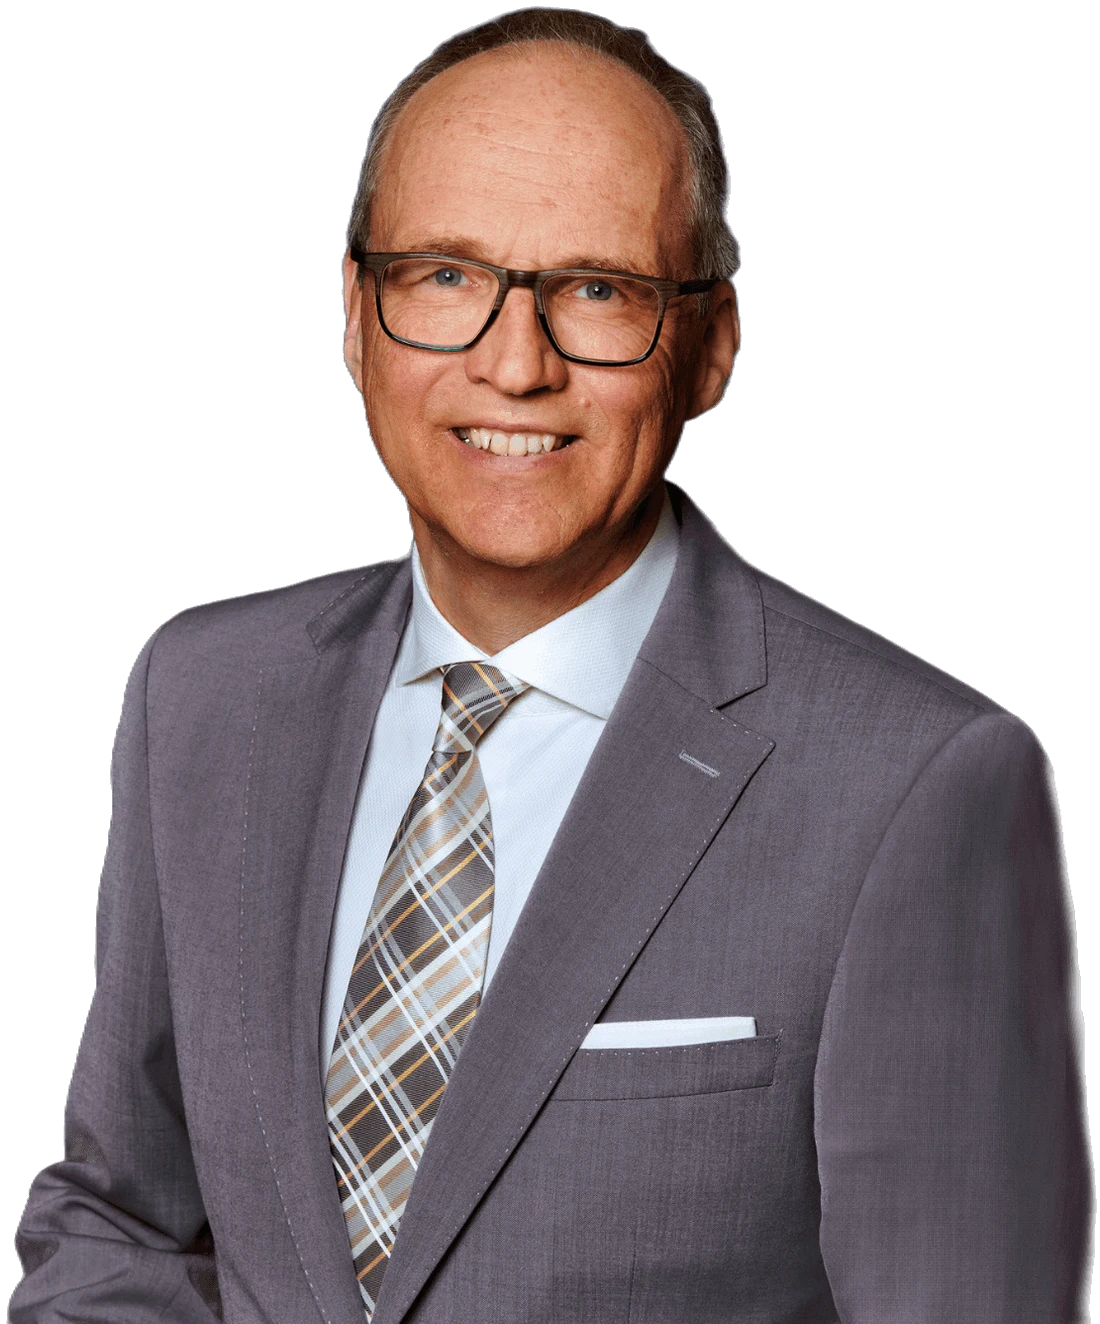
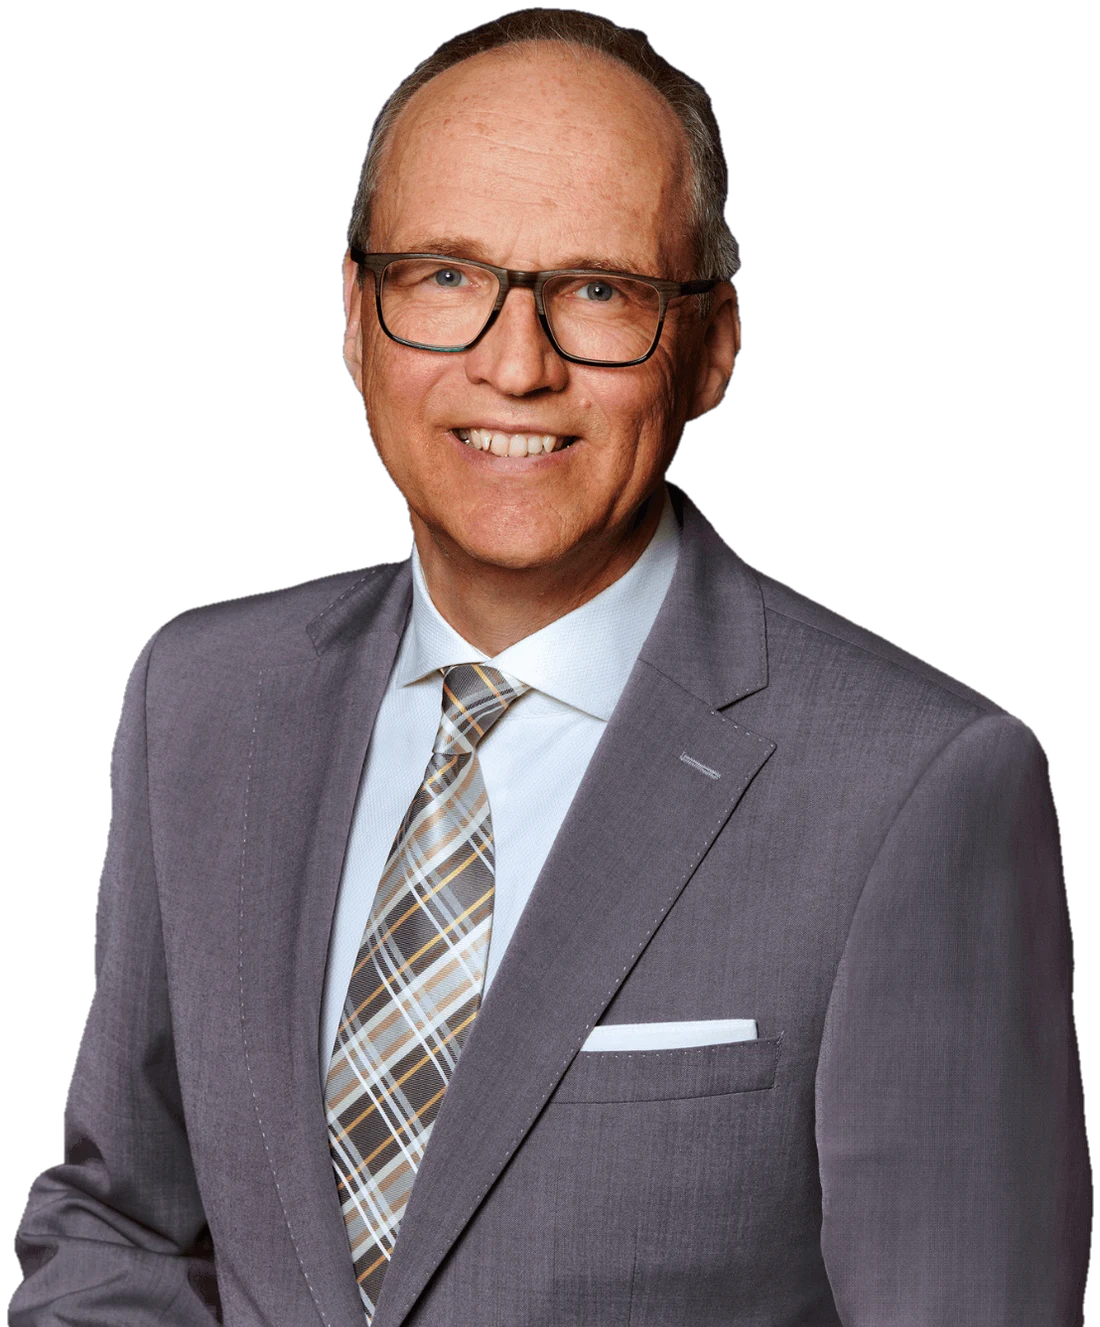
Portraet-Nachbesserung, Testimonial-Rondell, WhatsApp-Button, Wellen entfernt
- Weichen Transparenz-Schleier am rechten Aermel im freigestellten Foto bereinigt
  (Alphakanal neu geglaettet statt weicher Kante)
- Unteren Bildabschluss des Portraets an die Kreisform des Hintergrund-Kreises
  angepasst, Kopf/Schultern bleiben unangetastet freigestellt
- Trennstrich zwischen Positionsangabe und Vita bei Christian Lueth entfernt
- "Stimmen aus der Praxis" als Rondell mit langsamem automatischem Wechsel
  (pausiert bei Hover/Fokus, respektiert reduzierte Bewegung)
- WhatsApp-Button im Header neben "Anfrage stellen" ergaenzt, in Markenfarbe
  statt WhatsApp-Gruen, mit vorformulierter Nachricht (Name/E-Mail-Feld,
  Hinweis auf vertrauliche telefonische Erreichbarkeit)
- Wellenmuster am Hero-Ende entfernt

diff --git a/index.html b/index.html
@@ -458,9 +458,22 @@
     box-shadow: 0 14px 28px -14px rgba(94, 140, 32, 0.5);
     transform: translateY(-1px);
   }
+  .header-cta--whatsapp {
+    background: var(--color-green-deep);
+    box-shadow: 0 10px 24px -14px rgba(94, 140, 32, 0.5);
+  }
+  .header-cta--whatsapp:hover {
+    background: var(--color-ink);
+    box-shadow: 0 14px 28px -14px rgba(44, 44, 44, 0.5);
+  }
+  .header-cta-icon { flex-shrink: 0; }
   @media (max-width: 720px) {
     .header-right { gap: 0.9rem; }
     .header-partners { display: none; }
+  }
+  @media (max-width: 480px) {
+    .header-cta-label { display: none; }
+    .header-cta--whatsapp { padding: 0.65rem; }
   }
   .inline-cta { text-align: center; margin: 2.6rem 0 0; }
 
@@ -473,19 +486,6 @@
     position: relative;
     overflow: hidden;
   }
-  .hero-wave-below { padding-bottom: clamp(7.5rem, 11vw, 10.5rem); }
-  .hero-wave {
-    position: absolute;
-    left: 0;
-    right: 0;
-    bottom: 0;
-    height: clamp(70px, 9vw, 120px);
-    z-index: 1;
-    line-height: 0;
-    pointer-events: none;
-  }
-  .hero-wave svg { display: block; width: 100%; height: 100%; }
-
   /* -------------------------------------------------------------
      Ruhiger Farbverlauf (Alternative zu Foto-Baendern) --
      Rhythmus Foto / Farbverlauf / Foto ueber die Seite
@@ -823,8 +823,6 @@
     color: var(--color-ink-soft);
     font-size: 0.95rem;
     margin-bottom: 1.2rem;
-    padding-bottom: 1.2rem;
-    border-bottom: 1px solid var(--color-rule);
   }
   .speaker-card p {
     color: var(--color-ink-soft);
@@ -886,11 +884,16 @@
     justify-content: center;
     min-height: 320px;
   }
+  .speaker-feature-frame {
+    position: relative;
+    width: 100%;
+    max-width: 340px;
+  }
   .speaker-feature-backdrop {
     position: absolute;
-    top: 4%;
+    top: 2%;
     left: 50%;
-    width: 82%;
+    width: 96%;
     aspect-ratio: 1;
     transform: translateX(-50%);
     border-radius: 50%;
@@ -900,7 +903,7 @@
   .speaker-feature-marks {
     position: absolute;
     top: 6%;
-    right: 4%;
+    right: -2%;
     z-index: 2;
   }
   .speaker-feature-marks span { width: 30px; height: 8px; }
@@ -908,14 +911,14 @@
     position: relative;
     z-index: 1;
     width: 100%;
-    max-width: 340px;
     height: auto;
     display: block;
-    filter: drop-shadow(0 28px 36px rgba(44, 44, 44, 0.3));
+    clip-path: circle(53% at 50% 36%);
+    filter: drop-shadow(0 22px 30px rgba(44, 44, 44, 0.3));
   }
   @media (max-width: 799px) {
     .speaker-feature-portrait { order: -1; }
-    .speaker-feature-portrait img { max-width: 280px; }
+    .speaker-feature-frame { max-width: 280px; }
   }
 
   /* -------------------------------------------------------------
@@ -1569,24 +1572,35 @@
   }
 
   /* -------------------------------------------------------------
-     Stimmen aus der Praxis (anonymisierte Testimonials)
+     Stimmen aus der Praxis (anonymisierte Testimonials) — Rondell
      ------------------------------------------------------------- */
-  .testimonial-grid {
-    display: grid;
-    grid-template-columns: 1fr;
-    gap: 1.5rem;
+  .testimonial-carousel {
+    position: relative;
+    max-width: 640px;
+    margin: 0 auto;
   }
-  @media (min-width: 760px) {
-    .testimonial-grid { grid-template-columns: repeat(3, 1fr); }
+  .testimonial-track {
+    display: grid;
   }
   .testimonial-card {
+    grid-area: 1 / 1;
     background: var(--color-paper);
     border-top: 3px solid var(--color-green);
-    padding: 2rem 1.9rem;
+    padding: 2.2rem 2.1rem;
     display: flex;
     flex-direction: column;
     gap: 1.2rem;
     box-shadow: 0 24px 48px -32px rgba(44, 44, 44, 0.24);
+    opacity: 0;
+    visibility: hidden;
+    transform: translateY(10px);
+    transition: opacity 0.7s ease, transform 0.7s ease, visibility 0s linear 0.7s;
+  }
+  .testimonial-card.is-active {
+    opacity: 1;
+    visibility: visible;
+    transform: translateY(0);
+    transition: opacity 0.7s ease, transform 0.7s ease;
   }
   .testimonial-card .quote-mark {
     font-family: var(--font-display);
@@ -1599,8 +1613,8 @@
     margin: 0;
     font-family: var(--font-display);
     font-style: italic;
-    font-size: 1.08rem;
-    line-height: 1.5;
+    font-size: 1.15rem;
+    line-height: 1.55;
     color: var(--color-ink);
   }
   .testimonial-card footer {
@@ -1611,6 +1625,29 @@
     letter-spacing: 0.08em;
     text-transform: uppercase;
     color: var(--color-ink-muted);
+  }
+  .testimonial-dots {
+    display: flex;
+    justify-content: center;
+    gap: 0.6rem;
+    margin-top: 1.8rem;
+  }
+  .testimonial-dot {
+    width: 9px;
+    height: 9px;
+    border-radius: 50%;
+    border: none;
+    padding: 0;
+    background: var(--color-ink-muted);
+    opacity: 0.4;
+    cursor: pointer;
+    transition: opacity 0.25s ease, background 0.25s ease, transform 0.25s ease;
+  }
+  .testimonial-dot:hover { opacity: 0.7; }
+  .testimonial-dot.is-active {
+    background: var(--color-green);
+    opacity: 1;
+    transform: scale(1.25);
   }
 
   /* -------------------------------------------------------------
@@ -1787,6 +1824,10 @@
           <a href="mailto:info@ibras.de">info@ibras.de</a>
         </div>
       </div>
+      <a href="https://wa.me/4916097086559?text=Guten%20Tag%2C%20ich%20interessiere%20mich%20f%C3%BCr%20die%20Orientierungsberatung%20Bewertung%20und%20m%C3%B6chte%20gerne%20einen%20unverbindlichen%20Termin%20vereinbaren.%0A%0AName%3A%20%0AE-Mail-Adresse%3A%20%0A(Vertraulich%20erreichbar%20bin%20ich%20auch%20unter%20dieser%20Telefonnummer%2C%20von%20der%20ich%20diese%20Nachricht%20sende.)%0A%0AVielen%20Dank!" target="_blank" rel="noopener" class="header-cta header-cta--whatsapp" aria-label="Per WhatsApp kontaktieren">
+        <svg class="header-cta-icon" viewBox="0 0 24 24" width="15" height="15" fill="currentColor" aria-hidden="true"><path d="M12.01 2C6.48 2 2 6.48 2 12.01c0 1.94.55 3.75 1.5 5.29L2 22l4.86-1.47a9.96 9.96 0 0 0 5.15 1.42h.01c5.52 0 10-4.48 10-10S17.53 2 12.01 2Zm5.87 14.24c-.25.7-1.24 1.29-2.03 1.46-.55.12-1.26.21-3.66-.79-2.99-1.24-4.92-4.27-5.07-4.47-.15-.2-1.2-1.6-1.2-3.06 0-1.45.75-2.16 1.03-2.46.25-.27.62-.4.97-.4.12 0 .23 0 .32.01.28.01.42.03.61.48.24.57.8 1.98.87 2.12.07.15.12.32.02.51-.09.2-.14.32-.28.49-.14.17-.29.37-.42.5-.14.14-.28.29-.12.57.16.28.71 1.17 1.53 1.9 1.05.94 1.93 1.23 2.21 1.37.28.14.44.12.61-.07.17-.19.71-.83.9-1.11.19-.28.38-.24.63-.15.25.1 1.62.76 1.9.9.28.14.46.21.53.33.07.12.07.66-.18 1.36Z"/></svg>
+        <span class="header-cta-label">WhatsApp</span>
+      </a>
       <a href="#kontakt" class="header-cta">Anfrage stellen</a>
     </div>
   </div>
@@ -1812,7 +1853,7 @@
 <!-- =================================================================
      HERO
      ================================================================= -->
-<section id="start" class="hero schreibtisch-band hero-wave-below">
+<section id="start" class="hero schreibtisch-band">
   <div class="container hero-grid">
     <div>
       <div class="reveal reveal-1">
@@ -1859,14 +1900,6 @@
     </aside>
   </div>
 
-  <div class="hero-wave" aria-hidden="true">
-    <svg viewBox="0 0 1440 120" preserveAspectRatio="none" xmlns="http://www.w3.org/2000/svg">
-      <path d="M0,35 C240,80 480,-5 720,35 C960,72 1200,3 1440,40" fill="none" stroke="var(--color-ink)" stroke-opacity="0.16" stroke-width="2"/>
-      <path d="M0,50 C240,15 480,95 720,55 C960,20 1200,90 1440,58" fill="none" stroke="var(--color-green-deep)" stroke-opacity="0.35" stroke-width="2"/>
-      <path d="M0,65 C240,110 480,30 720,68 C960,100 1200,35 1440,72" fill="none" stroke="var(--color-green)" stroke-opacity="0.55" stroke-width="2.5"/>
-      <path d="M0,60 C240,105 480,15 720,55 C960,95 1200,20 1440,60 L1440,120 L0,120 Z" fill="var(--color-green-tint)"/>
-    </svg>
-  </div>
 </section>
 
 <!-- =================================================================
@@ -1930,9 +1963,11 @@
         </ul>
       </div>
       <div class="speaker-feature-portrait">
-        <span class="speaker-feature-backdrop" aria-hidden="true"></span>
-        <span class="speaker-feature-marks accent-bars" aria-hidden="true"><span></span><span></span><span></span></span>
-        <img src="christian-lueth-freigestellt.webp" alt="Christian Lüth" width="1100" height="1337" onerror="this.closest('.speaker-feature-portrait').style.display='none';">
+        <div class="speaker-feature-frame">
+          <span class="speaker-feature-backdrop" aria-hidden="true"></span>
+          <span class="speaker-feature-marks accent-bars" aria-hidden="true"><span></span><span></span><span></span></span>
+          <img src="christian-lueth-freigestellt.webp" alt="Christian Lüth" width="1100" height="1337" onerror="this.closest('.speaker-feature-portrait').style.display='none';">
+        </div>
       </div>
     </div>
   </div>
@@ -2077,22 +2112,29 @@
       <h2>Was Versicherungsmakler <em>nach der Beratung sagen.</em></h2>
     </div>
 
-    <div class="testimonial-grid reveal-scroll-group">
-      <article class="testimonial-card">
-        <div class="quote-mark" aria-hidden="true">„</div>
-        <p>Endlich jemand, der mir erklärt hat, wie Kaufpreise wirklich entstehen — nicht nur, was sie am Ende sind.</p>
-        <footer>Versicherungsmakler · Norddeutschland</footer>
-      </article>
-      <article class="testimonial-card">
-        <div class="quote-mark" aria-hidden="true">„</div>
-        <p>Die Beratung hat mir Sicherheit gegeben, bevor ich überhaupt mit einem Käufer gesprochen habe.</p>
-        <footer>Geschäftsführender Gesellschafter · Maklerunternehmen</footer>
-      </article>
-      <article class="testimonial-card">
-        <div class="quote-mark" aria-hidden="true">„</div>
-        <p>Diskret, fundiert und ohne Verkaufsdruck — genau das, was ich für diese Entscheidung gebraucht habe.</p>
-        <footer>Inhaberin · Versicherungsmaklerbüro</footer>
-      </article>
+    <div class="testimonial-carousel reveal-scroll" data-carousel>
+      <div class="testimonial-track">
+        <article class="testimonial-card is-active">
+          <div class="quote-mark" aria-hidden="true">„</div>
+          <p>Endlich jemand, der mir erklärt hat, wie Kaufpreise wirklich entstehen — nicht nur, was sie am Ende sind.</p>
+          <footer>Versicherungsmakler · Norddeutschland</footer>
+        </article>
+        <article class="testimonial-card">
+          <div class="quote-mark" aria-hidden="true">„</div>
+          <p>Die Beratung hat mir Sicherheit gegeben, bevor ich überhaupt mit einem Käufer gesprochen habe.</p>
+          <footer>Geschäftsführender Gesellschafter · Maklerunternehmen</footer>
+        </article>
+        <article class="testimonial-card">
+          <div class="quote-mark" aria-hidden="true">„</div>
+          <p>Diskret, fundiert und ohne Verkaufsdruck — genau das, was ich für diese Entscheidung gebraucht habe.</p>
+          <footer>Inhaberin · Versicherungsmaklerbüro</footer>
+        </article>
+      </div>
+      <div class="testimonial-dots" role="tablist" aria-label="Weitere Stimmen anzeigen">
+        <button type="button" class="testimonial-dot is-active" role="tab" aria-selected="true" aria-label="Stimme 1 von 3"></button>
+        <button type="button" class="testimonial-dot" role="tab" aria-selected="false" aria-label="Stimme 2 von 3"></button>
+        <button type="button" class="testimonial-dot" role="tab" aria-selected="false" aria-label="Stimme 3 von 3"></button>
+      </div>
     </div>
   </div>
 </section>
@@ -2397,8 +2439,8 @@
     });
   })();
 
-  // Erfolgsmeldung anzeigen, wenn das Anfrage-Formular per FormSubmit
-  // gesendet und mit ?gesendet=1 hierher zurückgeleitet wurde.
+  // Erfolgsmeldung anzeigen, wenn das Anfrage-Formular gesendet und mit
+  // ?gesendet=1 hierher zurückgeleitet wurde.
   (function () {
     if (new URLSearchParams(window.location.search).get('gesendet') !== '1') return;
     var card = document.getElementById('anfrage-form-card');
@@ -2406,6 +2448,53 @@
     card.classList.add('is-submitted');
     var success = card.querySelector('.form-success');
     if (success) success.classList.add('is-visible');
+  })();
+
+  // Stimmen aus der Praxis: Rondell mit langsamem automatischem Wechsel.
+  (function () {
+    var carousel = document.querySelector('[data-carousel]');
+    if (!carousel) return;
+    var cards = Array.prototype.slice.call(carousel.querySelectorAll('.testimonial-card'));
+    var dots = Array.prototype.slice.call(carousel.querySelectorAll('.testimonial-dot'));
+    if (cards.length < 2) return;
+
+    var current = 0;
+    var timer = null;
+    var AUTO_DELAY = 6500;
+    var reduceMotion = window.matchMedia('(prefers-reduced-motion: reduce)').matches;
+
+    function show(index) {
+      cards[current].classList.remove('is-active');
+      dots[current].classList.remove('is-active');
+      dots[current].setAttribute('aria-selected', 'false');
+      current = (index + cards.length) % cards.length;
+      cards[current].classList.add('is-active');
+      dots[current].classList.add('is-active');
+      dots[current].setAttribute('aria-selected', 'true');
+    }
+
+    function startAuto() {
+      if (reduceMotion) return;
+      stopAuto();
+      timer = window.setInterval(function () { show(current + 1); }, AUTO_DELAY);
+    }
+    function stopAuto() {
+      if (timer) { window.clearInterval(timer); timer = null; }
+    }
+
+    dots.forEach(function (dot, i) {
+      dot.addEventListener('click', function () {
+        show(i);
+        startAuto();
+      });
+    });
+
+    carousel.addEventListener('mouseenter', stopAuto);
+    carousel.addEventListener('mouseleave', startAuto);
+    carousel.addEventListener('focusin', stopAuto);
+    carousel.addEventListener('focusout', startAuto);
+
+    startAuto();
   })();
 </script>
 </body>
